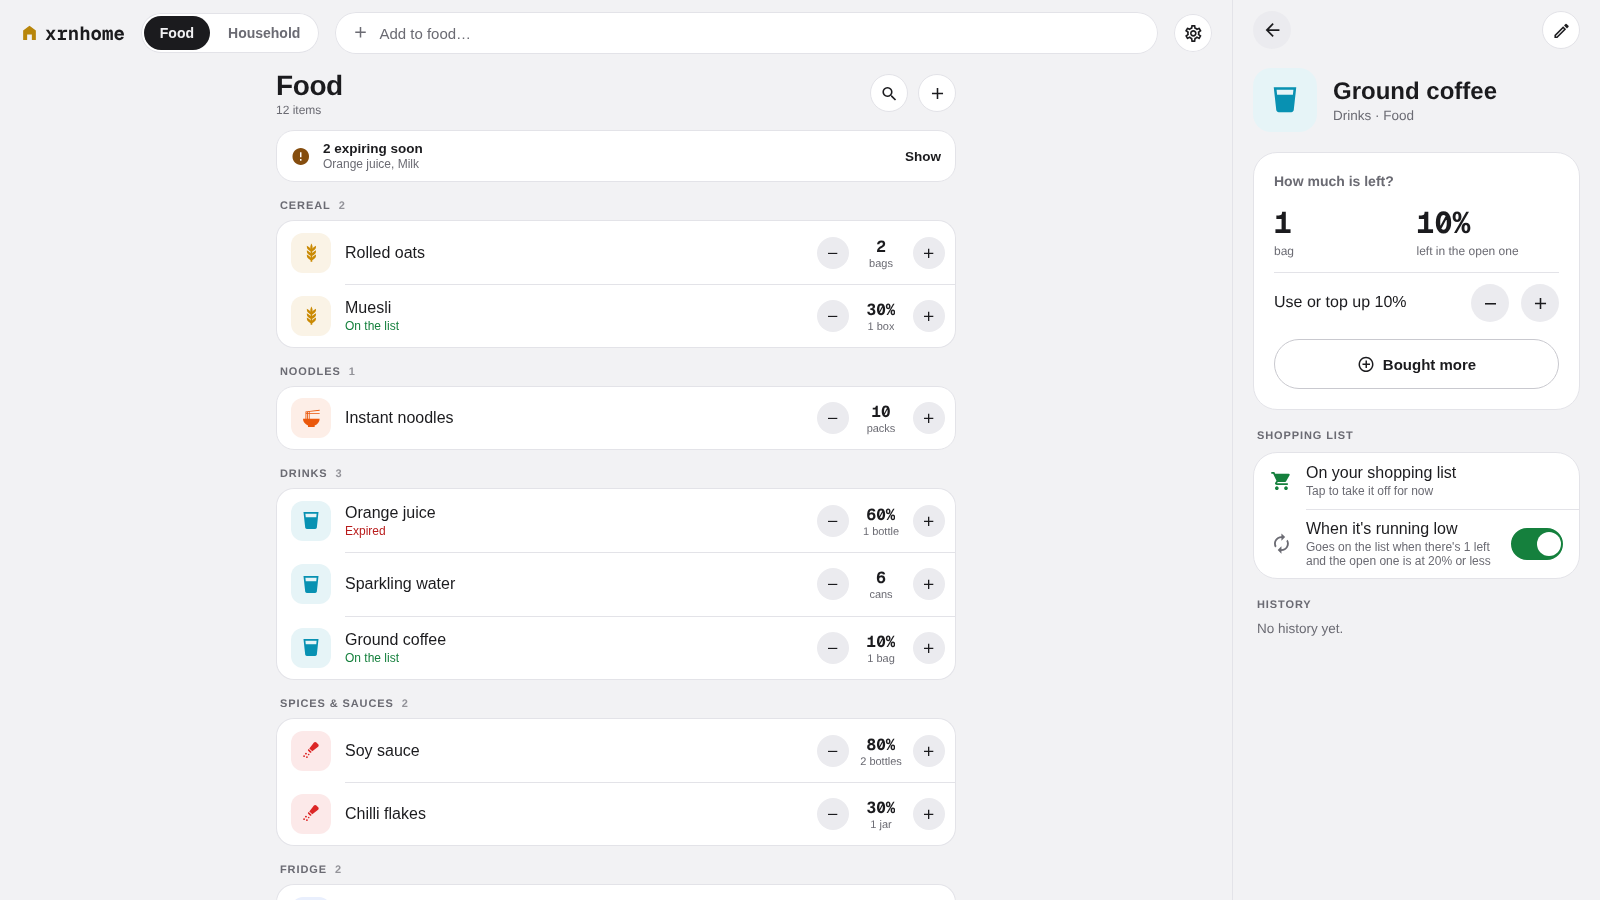
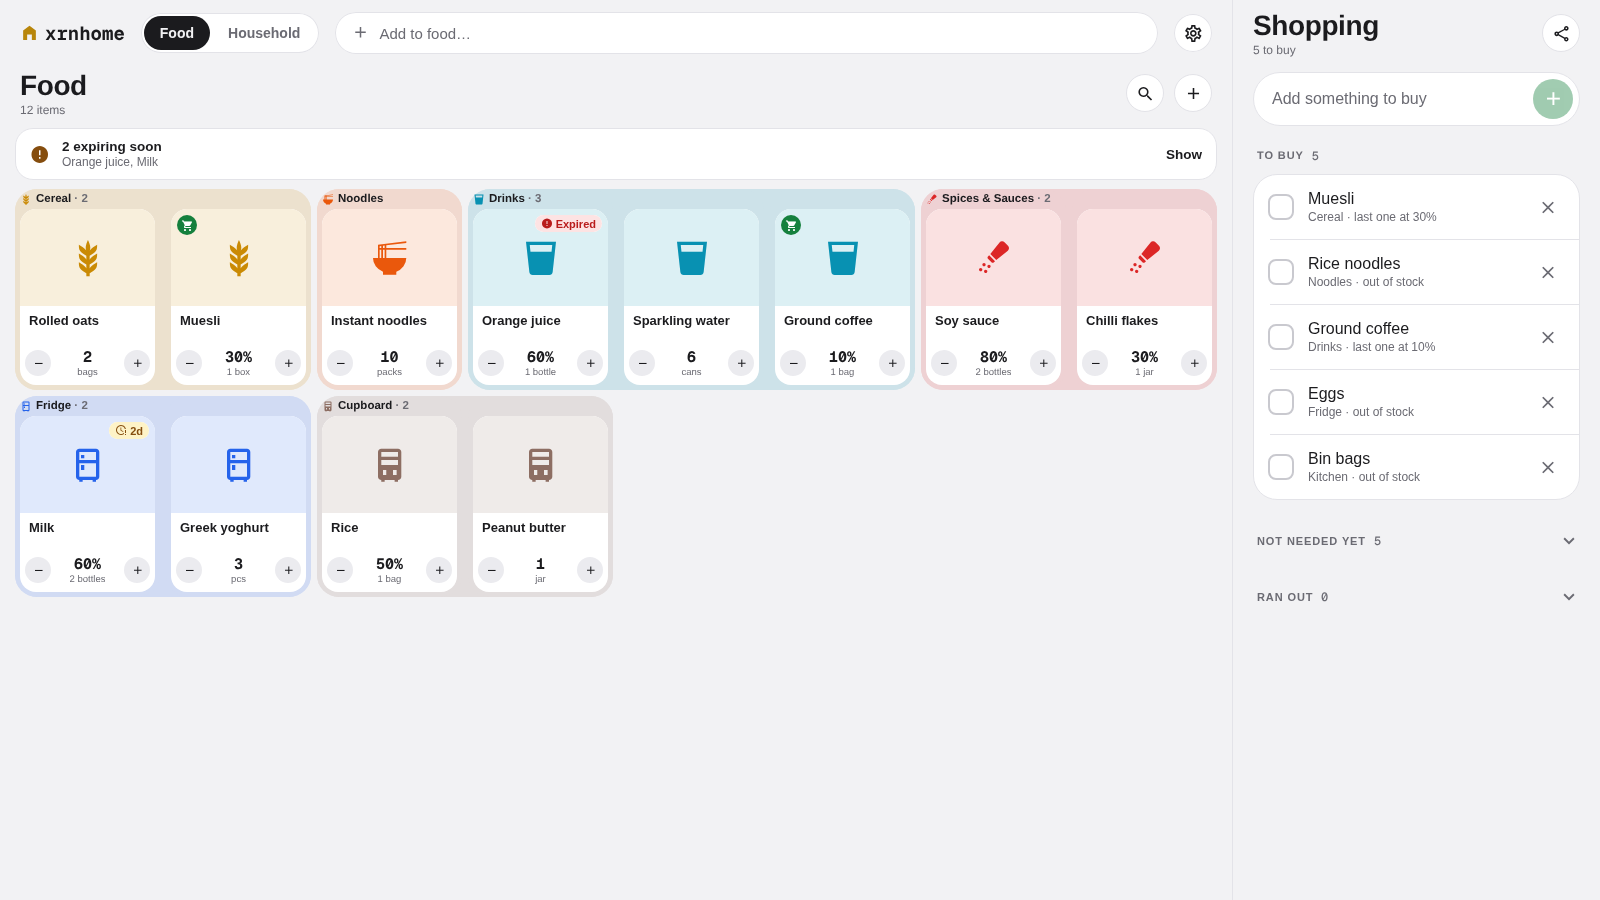
README: three cards a row in category colours, with new screenshots

diff --git a/README.md b/README.md
@@ -33,7 +33,7 @@ and update itself from it. Your data goes nowhere else.
 - **Count part-used items** — for things like a bottle of oil, track how much of
   the open one is left instead of pretending it is full or empty.
 - **Expiry dates** — give an item an optional expiry date. Anything expired or
-  due within four days is flagged on its row and counted in a banner at the top
+  due within four days is flagged on its card and counted in a banner at the top
   of its tab, and a notification tells you four days ahead and on the day. When
   you buy more of something that had a date, the app asks for the new one.
 - **Shopping list** — type anything you need into the box on the Shopping tab,
@@ -48,11 +48,11 @@ and update itself from it. Your data goes nowhere else.
   "Ran out", one tap from going back on it. Deleting, finishing a unit and taking
   something off the list all show an undo button for a few seconds, and a form
   with unsaved changes asks before it closes.
-- **Quick to browse** — each tab is a plain list, one card per category and one
-  row per item: its picture, its name, and minus and plus around how much is
-  left. A line under the name appears only when something needs noticing:
-  expired, expiring soon or on the list. Search looks through both tabs,
-  including things that have run out.
+- **Quick to browse** — items sit three to a row, each category on a panel in
+  its own colour, and every card in a category takes that colour too, so a
+  category is easy to find at a glance. A card shows a green cart when it's on
+  the shopping list and the date when it's close. Search looks through both
+  tabs, including things that have run out.
 - **Light and dark** — soft greys rather than stark white or black, in the same
   look as the other xrn apps. Follows your system theme, or pick one in
   Settings.
@@ -62,7 +62,8 @@ and update itself from it. Your data goes nowhere else.
   reinstall, restores everything from it. The server also hands out new builds
   of the app: they download on Wi-Fi, and install after asking.
 - **The same app on your laptop** — the server also serves the app as a web page,
-  laid out for a big screen: the same list, the shopping list always beside it, and a box to add things by typing a name and pressing Enter.
+  laid out for a big screen: the same cards in a wider grid, the shopping list
+  always beside them, and a box to add things by typing a name and pressing Enter.
   Open it in a browser and sign in, and it stays in step with the phone: changes on
   either side show up on the other while the app is open, and the two are merged
   rather than one replacing the other.
@@ -202,10 +203,10 @@ connection. There's no camera, reminders or backup files, since the server keeps
 copies. It keeps a list of its own in the browser and merges it with the server's the
 same way the phone does.
 
-![The laptop version, with an item open beside the list](docs/screenshots/laptop-light.png)
+![The laptop version, with the shopping list beside the cards](docs/screenshots/laptop-light.png)
 
 In a window at least 1000 pixels wide, the shopping list stays open beside your items
-as a basket, and clicking an item opens it in its place. Typing the name of something
+as a basket, and clicking a card opens that item in its place. Typing the name of something
 you have into the basket's box puts it on the list. The box at the top adds things:
 type a name and press Enter, and the cursor stays there for the next one. A name you
 already have adds to that item instead of making a second one. **More…** opens the
@@ -215,7 +216,7 @@ layout.
 | Key | What it does |
 | --- | --- |
 | `/` | Go to the box that adds things |
-| `Esc` | Close the item beside the list |
+| `Esc` | Close the item beside the cards |
 
 ## How the counting works
 
@@ -236,7 +237,7 @@ to the stock that is gone. The app remembers that the item has one and asks for
 the new date when you buy more. Adding more of something you still have keeps the
 earlier of the two dates.
 
-In the list, minus and plus move the open unit by 10% for an item counted in %.
+On a card, minus and plus move the open unit by 10% for an item counted in %.
 Hold plus to add a whole new one. The item's page has "Bought more" for any
 amount.
 
@@ -265,7 +266,7 @@ src/
                         server, Your categories, Add, Edit, Item detail, and
                         the page for unreadable data
   components/           the shared building blocks (ui.js), the item form,
-                        item rows, stepper, toast, badges
+                        item cards, category grid, stepper, toast, badges
   desktop/              the page the laptop version puts round the app's screens
   context/              inventory state, theme, reminders, home server sync
                         and updates
